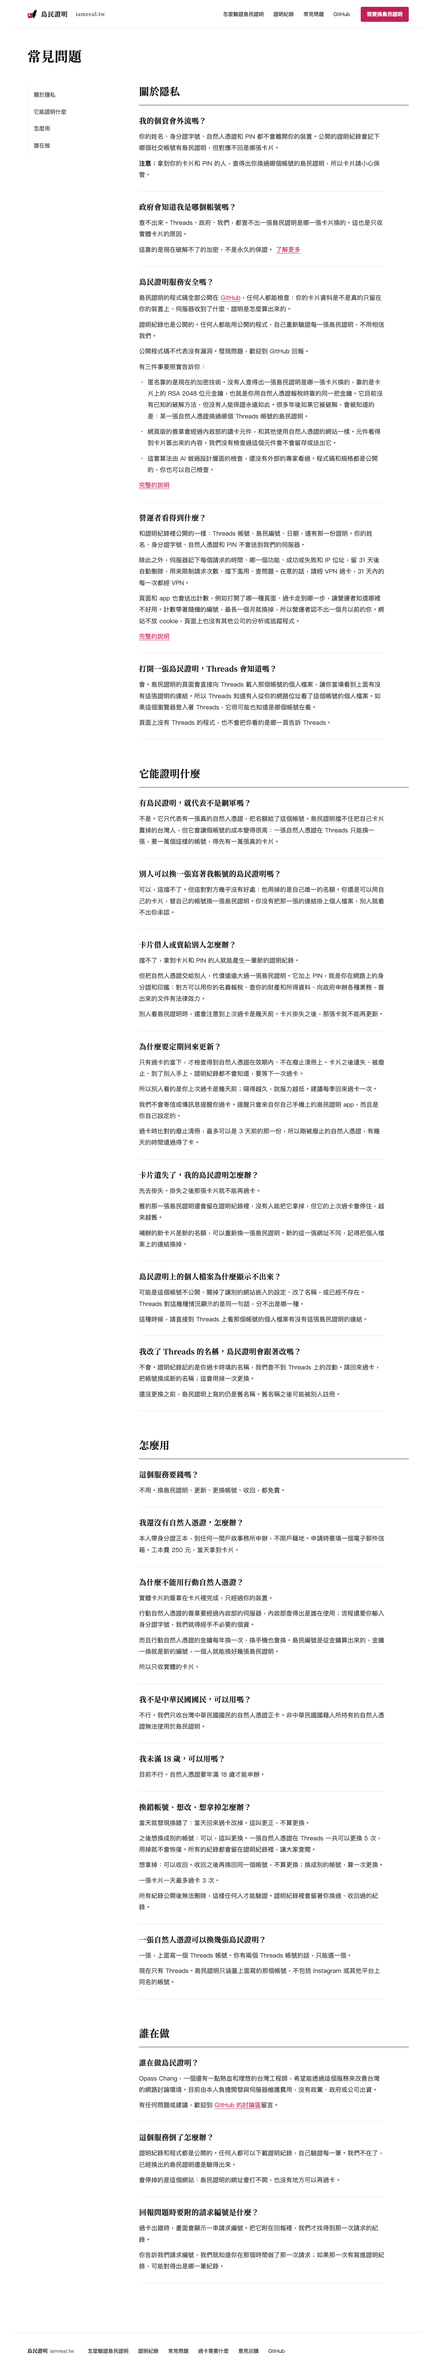
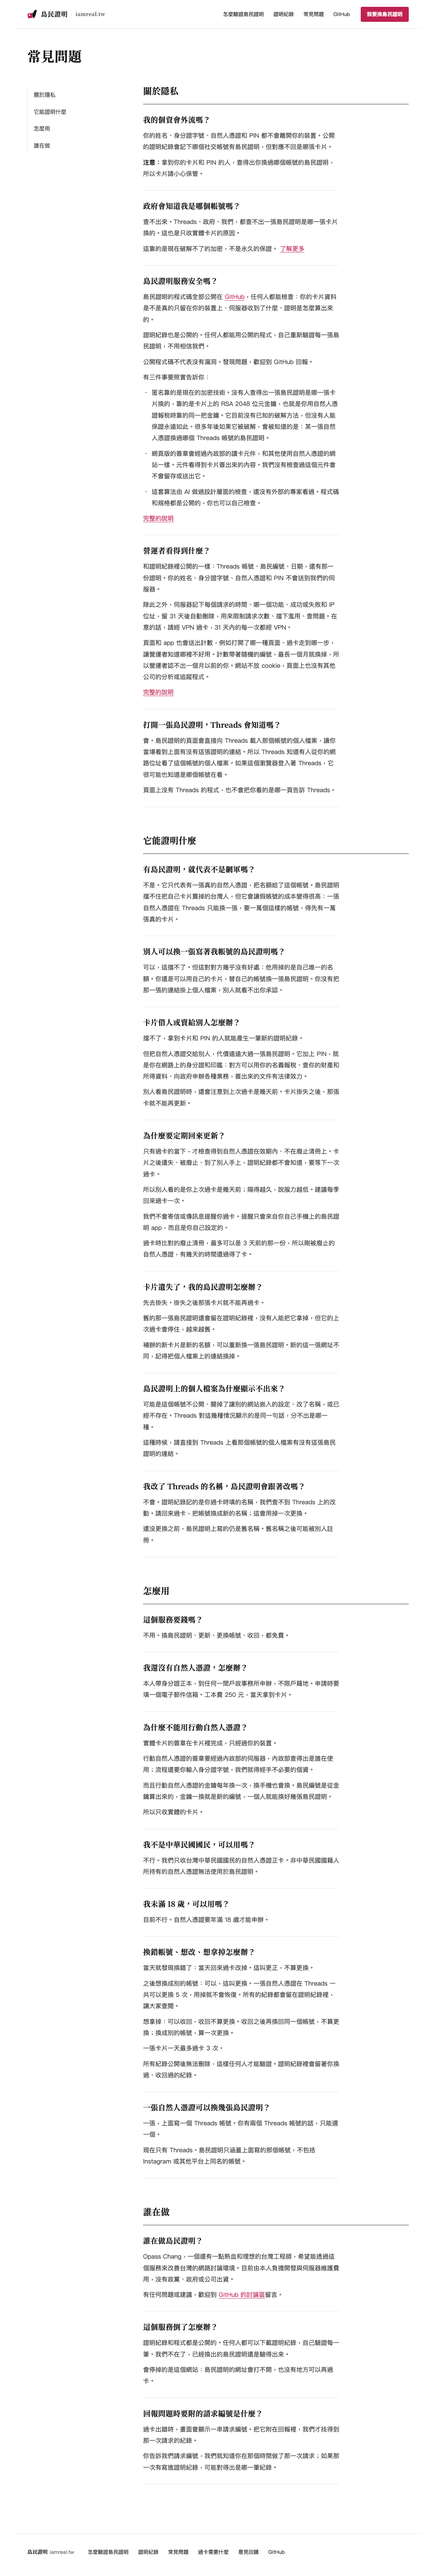
審查的修正：兩欄之間用 --column-gap、題目寬度用 --measure、標題字級照 DESIGN.md 的字表、目錄的名稱從 faq.md 讀、收回不算更換寫在畫面上、內政部來源寫到哪一頁（#289）

Changed region(s): [[0.3125, 0.0311, 0.875, 0.9651], [0.0625, 0.0, 0.1875, 0.0623]]

diff --git a/worker/src/pages/faq.ts b/worker/src/pages/faq.ts
@@ -13,8 +13,15 @@ export interface Question {
   readonly answer: Html;
 }
 
-/** The four categories of faq.md, in its order, each with its id on the FAQ page (faq.md, under each category) and its questions in its order. */
-export const CATEGORIES: readonly { readonly name: string; readonly id: string; readonly questions: readonly Question[] }[] = [
+/** One category: its name, its id on the FAQ page (faq.md, under each category) and its questions, in faq.md's order. */
+export interface Category {
+  readonly name: string;
+  readonly id: string;
+  readonly questions: readonly Question[];
+}
+
+/** The four categories of faq.md, in its order. */
+export const CATEGORIES: readonly Category[] = [
   {
     name: "關於隱私",
     id: "cat-privacy",
@@ -148,7 +155,7 @@ export const CATEGORIES: readonly { readonly name: string; readonly id: string; 
         question: "換錯帳號、想改、想拿掉怎麼辦？",
         answer: new Html(`<p>當天就發現換錯了：當天回來過卡改掉。這叫更正，不算更換。</p>
 <p>之後想換成別的帳號：可以，這叫更換。一張自然人憑證在 Threads 一共可以更換 5 次，用掉就不會恢復。所有的紀錄都會留在證明紀錄裡，讓大家查閱。</p>
-<p>想拿掉：可以收回。收回之後再換回同一個帳號，不算更換；換成別的帳號，算一次更換。</p>
+<p>想拿掉：可以收回，收回不算更換。收回之後再換回同一個帳號，不算更換；換成別的帳號，算一次更換。</p>
 <p>一張卡片一天最多過卡 3 次。</p>
 <p>所有紀錄公開後無法刪除，這樣任何人才能驗證。證明紀錄裡會留著你換過、收回過的紀錄。</p>`),
       },
@@ -203,7 +210,7 @@ export function faqPage(): Document {
 <nav class="categories" aria-label="分類"><ol>
 ${CATEGORIES.map((c) => html`<li><a href="#${c.id}">${c.name}</a></li>`)}
 </ol></nav>
-<div>
+<div class="faq-questions">
 ${CATEGORIES.map(
   (c) => html`<section class="category" id="${c.id}">
 <h2>${c.name}</h2>

diff --git a/worker/site/pages.css b/worker/site/pages.css
@@ -42,12 +42,17 @@
   --size-body-phone: 16px;
   --size-h2: 40px;
   --size-h2-phone: 28px;
+  --size-h3: 26px;
+  --size-h3-phone: 21px;
+  --size-lead: 22px;
+  --size-lead-phone: 19px;
   --size-kicker: 15px;
   --size-kicker-phone: 14px;
   --size-small: 14px;
   --weight-heading: 700;
   --weight-account: 800;
   --weight-body: 400;
+  --leading-h3: 1.5;
   --leading-body: 1.85;
   --gutter: 40px;
   --gutter-phone: 20px;
@@ -999,7 +1004,7 @@ body.faq .title {
 body.faq .faq-body {
   display: grid;
   grid-template-columns: minmax(0, 3fr) minmax(0, 9fr);
-  gap: 64px;
+  gap: var(--column-gap);
   align-items: start;
   margin-top: 56px;
 }
@@ -1042,15 +1047,15 @@ body.faq .category h2 {
   margin: 0;
   font-family: var(--font-display);
   font-weight: var(--weight-heading);
-  font-size: 30px;
-  line-height: 1.4;
+  font-size: var(--size-h3);
+  line-height: var(--leading-h3);
   letter-spacing: normal;
   padding-bottom: 18px;
   border-bottom: 1px solid var(--ink);
 }
 
 body.faq .question {
-  max-width: 40em;
+  max-width: var(--measure);
   padding: 30px 0 32px;
   border-bottom: 1px solid var(--line);
   scroll-margin-top: 16px;
@@ -1060,8 +1065,8 @@ body.faq .question h3 {
   margin: 0;
   font-family: var(--font-display);
   font-weight: var(--weight-heading);
-  font-size: 22px;
-  line-height: 1.5;
+  font-size: var(--size-lead);
+  line-height: var(--leading-h3);
 }
 
 body.faq .question p,
@@ -1418,7 +1423,7 @@ body.prepare .situation p {
   }
 
   body.faq .category h2 {
-    font-size: 24px;
+    font-size: var(--size-h3-phone);
   }
 
   body.faq .question {
@@ -1426,6 +1431,6 @@ body.prepare .situation p {
   }
 
   body.faq .question h3 {
-    font-size: 19px;
+    font-size: var(--size-lead-phone);
   }
 }

diff --git a/worker/test/site-pages.test.ts b/worker/test/site-pages.test.ts
@@ -61,8 +61,10 @@ describe("the FAQ", () => {
     for (const q of questions) assert.ok(page.includes(`<section class="question" id="${q.id}"><h3>${q.question}</h3>`), `${q.question} is a heading with the id ${q.id}`);
 
     // The list of the categories: each name a link to its category, in faq.md's order, under the title and above the first question.
-    const list = /<nav class="categories" aria-label="分類">(.*?)<\/nav>/s.exec(page);
-    assert.ok(list !== null, "the page has the list of the categories, named 分類");
+    const listName = /螢幕閱讀器唸的名稱是「([^」]*)」/.exec(readCopy("faq.md"))?.[1];
+    assert.ok(listName !== undefined, "faq.md names the list of the categories");
+    const list = new RegExp(`<nav class="categories" aria-label="${listName}">(.*?)</nav>`, "s").exec(page);
+    assert.ok(list !== null, `the page has the list of the categories, named ${listName}`);
     assert.deepEqual(
       [...list[1]!.matchAll(/<a href="([^"]*)">([^<]*)<\/a>/g)].map((m) => [m[1], m[2]]),
       categories.map((c) => [`#${c.id}`, c.name]),

diff --git a/worker/scripts/site-files.ts b/worker/scripts/site-files.ts
@@ -64,7 +64,7 @@ export const SITE_FILES: readonly string[] = ["_headers", "_redirects", "copy.js
  * written here: a deploy uploads the style sheet that was reviewed. Change
  * it with the file (`shasum -a 256 site/pages.css`).
  */
[2 lines of base64/hex data omitted]
 
 /**
  * The SHA-256 of site/copy.js, the copy buttons' script, the other file of

diff --git a/worker/README.md b/worker/README.md
@@ -493,7 +493,7 @@ IAMREAL_SEQUENCE_STORAGE=1 node --experimental-strip-types --test test/sequence.
 
 **`/copy.js` 是檔案，和樣式表一樣由 Static Assets 送**：`site/copy.js` 是從舊後台逐位元組搬過來的，帶訪客頁面的標頭、`Cache-Control: no-cache` 和 `ETag`，帶著 `If-None-Match` 再要一次時回 `304`。和舊後台不同的地方：`ETag` 的值是 Static Assets 給的（舊後台是 SHA-256 的前 8 個位元組）；其他方法的 `405` 沒有 `Allow`；設定讀不出來時照常送。`Content-Type` 本機是 `text/javascript; charset=utf-8`，和舊後台相同；Cloudflare 上是 `text/javascript`，不帶 `charset`（樣式表線上也是 `text/css`，不帶；見 [Static Assets](#static-assets)「Cloudflare 上看過的」）。這對 `copy.js` 沒有影響：檔裡 ASCII 以外的字只在開頭的註解（兩行，`LC_ALL=C grep -n '[^ -~]' site/copy.js`），程式本身全是 ASCII，照哪一種編碼讀都一樣。之後要在這個檔的程式裡寫 ASCII 以外的字時再看：沒有 `charset` 時瀏覽器用載入它的頁面的編碼來讀（HTML 標準的 [fetch a classic script](https://html.spec.whatwg.org/multipage/webappapis.html#fetch-a-classic-script) 把頁面的編碼當成後備），而這裡的頁面都是 `text/html; charset=utf-8`。
 
-- **樣板和複製按鈕的程式是舊後台的，樣式表照新的設計。** `src/pages/` 的 HTML 照舊後台的樣板逐段搬過來，`site/copy.js` 就是舊後台的那一支；舊後台刪掉之前，測試核對過 `copy.js` 和當時的 `site/pages.css` 和舊後台的逐位元組相同。之後導覽列、頁尾和整站的外觀換成 `design/DESIGN.md` 的（[#283](https://github.com/iamreal-tw/iamreal/issues/283)）：`site/pages.css` 的 `:root` 每一個值和 `design/tokens.json` 同名的相同，顏色只從那裡來，`760px` 以下換成手機的排法（`test/style-sheet.test.ts`）；各頁自己的排法等各頁的票，現在仍是一欄。畫面上的每一句寫在樣板裡，逐字照 `design/copy/`；測試（[`test/pages.test.ts`](test/pages.test.ts)、[`test/copy.ts`](test/copy.ts)）直接讀 `design/copy/` 的每一段，確認那一種情況的每一句都在頁面上、順序相同。
+- **樣板和複製按鈕的程式是舊後台的，樣式表照新的設計。** `src/pages/` 的 HTML 照舊後台的樣板逐段搬過來，`site/copy.js` 就是舊後台的那一支；舊後台刪掉之前，測試核對過 `copy.js` 和當時的 `site/pages.css` 和舊後台的逐位元組相同。之後導覽列、頁尾和整站的外觀換成 `design/DESIGN.md` 的（[#283](https://github.com/iamreal-tw/iamreal/issues/283)）：`site/pages.css` 的 `:root` 每一個值和 `design/tokens.json` 同名的相同，顏色只從那裡來，`760px` 以下換成手機的排法（`test/style-sheet.test.ts`）；各頁自己的排法等各頁的票：過卡需要什麼（`/prepare`）、常見問題（`/faq`）已經照 `design/DESIGN.md` 排，其他頁現在仍是一欄。畫面上的每一句寫在樣板裡，逐字照 `design/copy/`；測試（[`test/pages.test.ts`](test/pages.test.ts)、[`test/copy.ts`](test/copy.ts)）直接讀 `design/copy/` 的每一段，確認那一種情況的每一句都在頁面上、順序相同。
 - **放進 HTML 的值一律跳脫。** 樣板是 `src/pages/html.ts` 的 `html` 標籤：放進去的字串全部跳脫，只有這個標籤自己產生的片段不跳脫。訪客打的網址、證明紀錄裡的帳號都走這一條。
 - **頁面預設沒有程式**：沒有 `<script>`、沒有行內樣式、沒有事件屬性，不設 cookie。例外只有怎麼驗證島民證明和帶著島民證明的掛上去：各載入一支自己網域的程式 `/copy.js`（`<script src="/copy.js" defer>`），沒有行內的程式；這兩頁的 CSP 多一項 `script-src 'self'`（[頁面送的標頭](#頁面送的標頭)）。程式只讓「複製」的按鈕出現、按了複製；沒有程式時按鈕藏著，要複製的字照樣在頁面上選得起來。只收 `GET` 和 `HEAD`，其他方法回 `405`。產生頁面時只讀請求的方法和路徑，證明紀錄頁另外讀網址的查詢（`q`、`after`）。
 - **後台不存連線紀錄。** 頁面的請求也一樣，回答了就不寫任何東西。後台自己出錯時回 `500`（純文字），寫一行：`{event: "internal_error", page, where, error}`，`page` 是哪一種頁面（`home`、`card`、`account`、`proof_log`、`hang`、`faq`、`verify`、`none`），不含短編號、帳號和網址的任何部分。檔案的請求不跑 Worker，後台的程式對它們什麼都不寫。

diff --git a/design/copy/faq.md b/design/copy/faq.md
@@ -229,7 +229,7 @@
 所以只收實體的卡片。
 ```
 
-第三段的來源：內政部行動自然人憑證常見問題（https://fido.moi.gov.tw/pt/main/qa）。「申請與說明」的「行動自然人憑證的最長使用年限與金鑰重新產製規定為何？」：每次簽發的金鑰效期 1 年，效期屆滿前要在 app 辦理金鑰重新產製。「應用問題」的「如果要更換新行動裝置（手機或平板），怎麼轉移或綁定原有憑證？」：「無法沿用原有憑證」，要在新裝置重新註冊；同一頁的錯誤碼 5003 那一題寫簽章金鑰在新裝置上產生。
+第三段的來源：內政部行動自然人憑證常見問題。「申請與說明」（https://fido.moi.gov.tw/pt/main/qa）的「行動自然人憑證的最長使用年限與金鑰重新產製規定為何？」：每次簽發的金鑰效期 1 年，效期屆滿前要在 app 辦理金鑰重新產製。「應用問題」（https://fido.moi.gov.tw/pt/main/qa?level2id=20）的「如果要更換新行動裝置（手機或平板），怎麼轉移或綁定原有憑證？」：「無法沿用原有憑證」，要在新裝置重新註冊；同一頁錯誤碼 5003 那一題寫簽章金鑰在新裝置上產生。
 
 這一題在頁面上的 `id`：`mobile-certificate`，連到這一題寫 `/faq#mobile-certificate`。
 
@@ -260,7 +260,7 @@
 
 之後想換成別的帳號：可以，這叫更換。一張自然人憑證在 Threads 一共可以更換 5 次，用掉就不會恢復。所有的紀錄都會留在證明紀錄裡，讓大家查閱。
 
-想拿掉：可以收回。收回之後再換回同一個帳號，不算更換；換成別的帳號，算一次更換。
+想拿掉：可以收回，收回不算更換。收回之後再換回同一個帳號，不算更換；換成別的帳號，算一次更換。
 
 一張卡片一天最多過卡 3 次。
 
